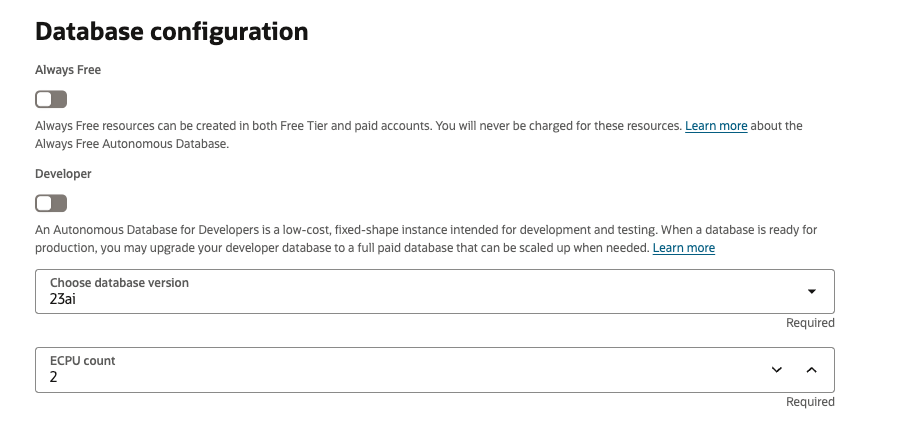
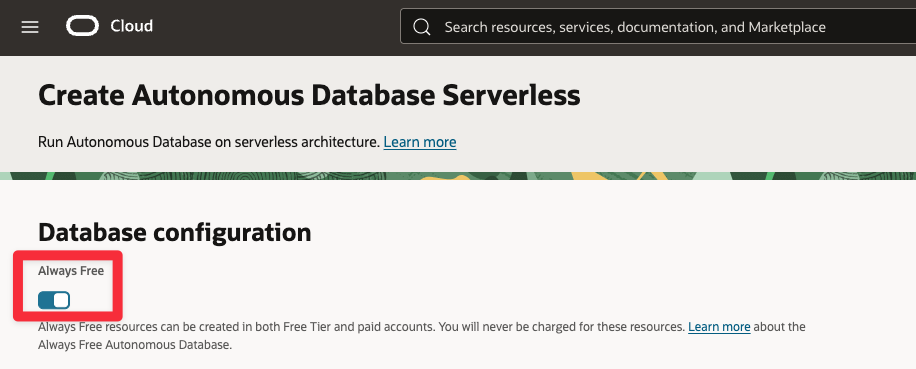
WMS 11382: Update ADB login (#881)
* WMS 11382: Update ADB login

WMS 11382: Update ADB login

* WMS 11382: Update ADB login

WMS 11382: Update ADB login

diff --git a/23aifree/login-to-abd3/login-to-adb3.md b/23aifree/login-to-abd3/login-to-adb3.md
@@ -49,9 +49,7 @@ In this lab, you will:
 
 4. Configure the database:
 
-    - **Always Free** - If your Cloud Account is an Always Free account, you can select this option to create an always free autonomous database. An always free database comes with 1 CPU and 20 GB of storage. For this lab, you can leave Always Free checked.
-    - **Choose database version** - Select 23ai from the database version.
-    - **ECPU Count** - You can specify the number of ECPUs. You can keep the default of 2.
+    - **Always Free** - If your Cloud Account is an Always Free account, you can select this option to create an always free autonomous database.
 
     ![Config database2](images/create-adb3-2.png)
 
